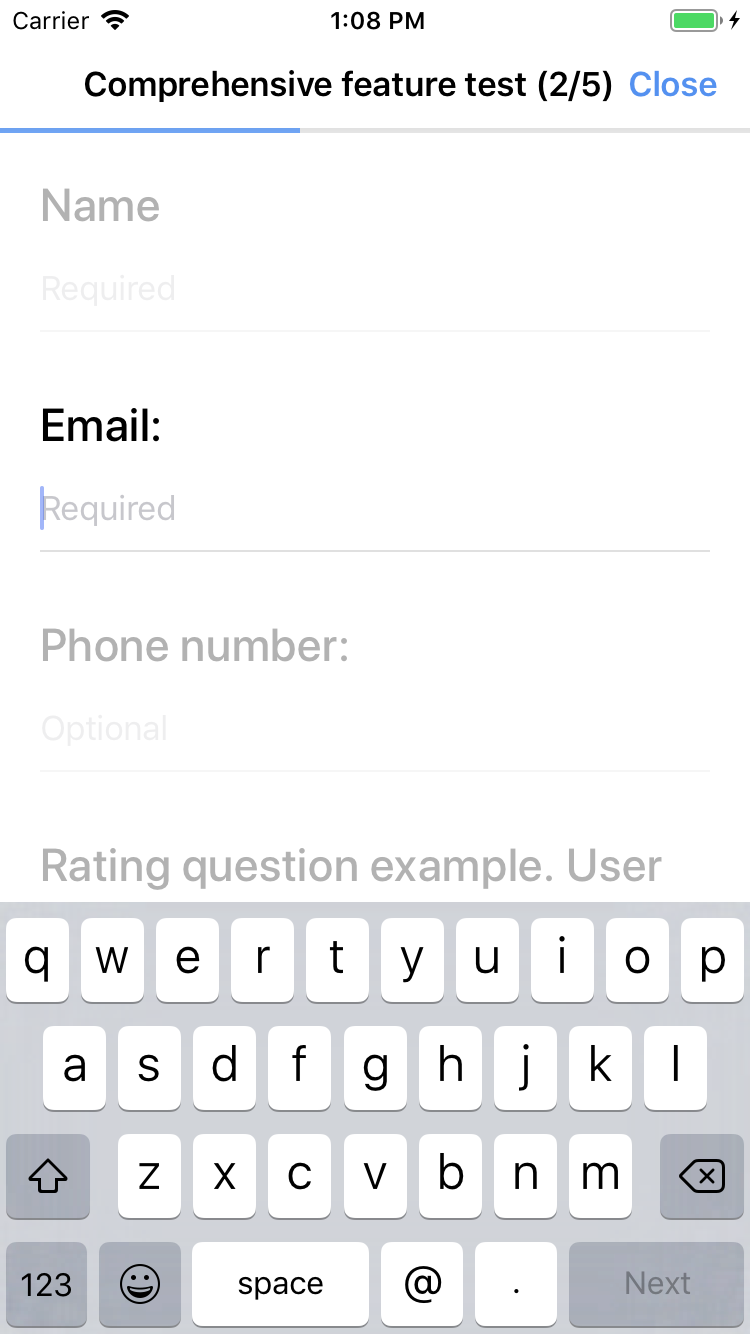
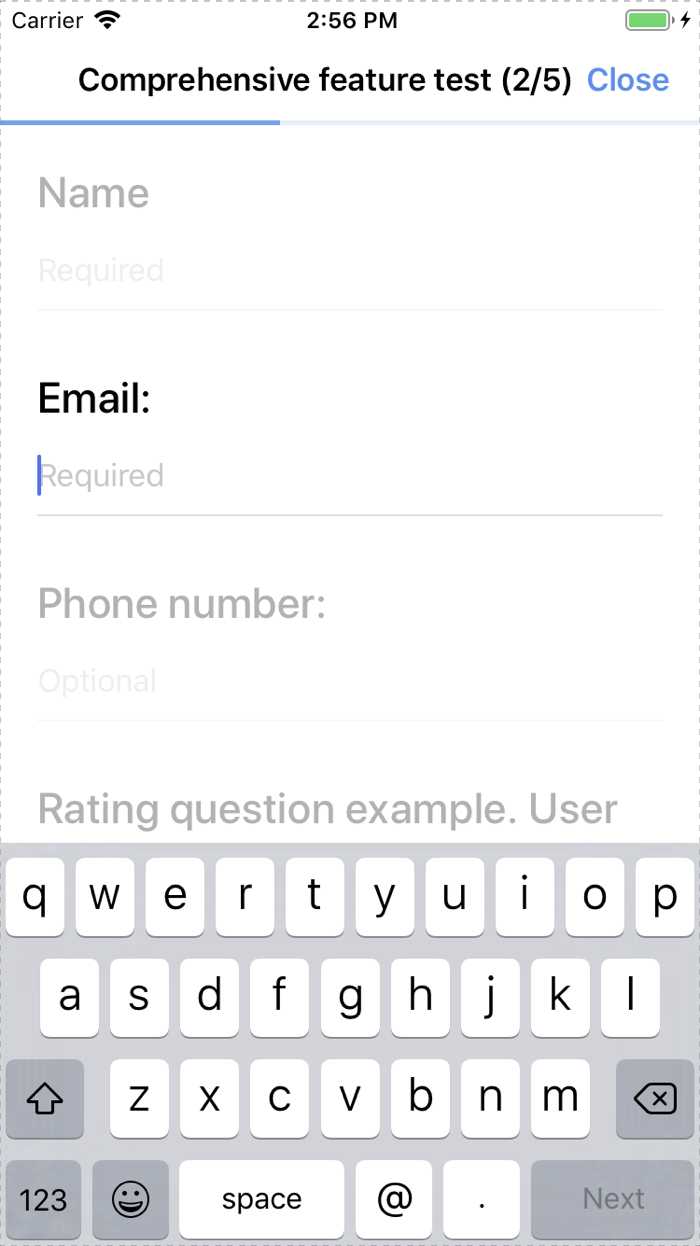
Updated README

diff --git a/README.md b/README.md
@@ -1,7 +1,7 @@
 # SurveyLex iOS Survey-taking Framework
 
 ## Introduction
-This Swift framework (iOS 11.0+) is designed to natively store, display and submit the most common elements in a typical online survey, and its precise architecture is engineered based on  [SurveyLex](https://www.surveylex.com), a survey-taking platform developed by [NeuroLex Laboratories Inc](https://neurolex.ai). The types survey elements that are currently supported are:
+This Swift framework (iOS 11.0+) is designed to natively store, display and submit the most common components in a typical survey on mobile devices, and its precise architecture is engineered based on  [SurveyLex](https://www.surveylex.com), a survey-taking platform developed by [NeuroLex Laboratories Inc](https://neurolex.ai). The types survey elements that are currently supported are:
 - Consent form
 - Multiple choice questions
 - Checkbox questions
@@ -44,14 +44,16 @@ func surveyDidLoad(_ survey: Survey) {
 ## Environment variables
 - `allowMenuCollapse`: A boolean indicating whether choices that are expanded can be folded up again. Default is `false`.
 - `autofocus`: Whether the current item on a page of a survey has higher opacity than other elements. Default is `true`. <br>
-  <img src="Screenshots/autofocus.png" width="250" style="border: 1px dashed #e5e5e5">
+  <img src="Screenshots/autofocus.png" width="250">
 - `isSubmissionMode`: A boolean indicating whether the survey maintains an active connection with the server (i.e. a session is created on open, and responses are uploaded). The opposite of submission mode is **stealth mode**, where no data ever leaves the device throughout the survey-taking process. Default is `true`.
 - `showLandingPage`: A boolean indicating whether a landing page is shown when a survey is launched. The landing page consists of the survey title, a built-in description, and shows a survey logo if the survey has one. Default is `true`.
-- `showNavigationMenu`: A boolean indicating whether a navigation menu is shown at the bottom of the survey for flipping pages. <u>Note that you can always use swipe gestures to flip pages</u>. Default is `true`.
+- `showNavigationMenu`: A boolean indicating whether a navigation menu is shown at the bottom of the survey for flipping pages. *Note that you can always use swipe gestures to flip pages*. Default is `true`.
 - `allowsJumping`: Whether the user can see a 'Go to Page' button in the navigation menu that allows them to jump to any unlocked page. Default is `false`.
+- `cachesSurvey`: Whether a survey and its partial responses are cached on exit. Default is `true`.
 - `theme`: A `Survey.Theme` type variable containing the theme colors the survey should use. A few pre-defined themes are provided:
   - `Survey.Theme.blue` (Default)
   - `Survey.Theme.green`
+  - `Survey.Theme.orange`
   - `Survey.Theme.cyan`
   - `Survey.Theme.purple`
   - You can built your own theme by using the `Survey.Theme()` constructor, specifying four colors: **dark**, **medium**, **light**, and **highlight**.
